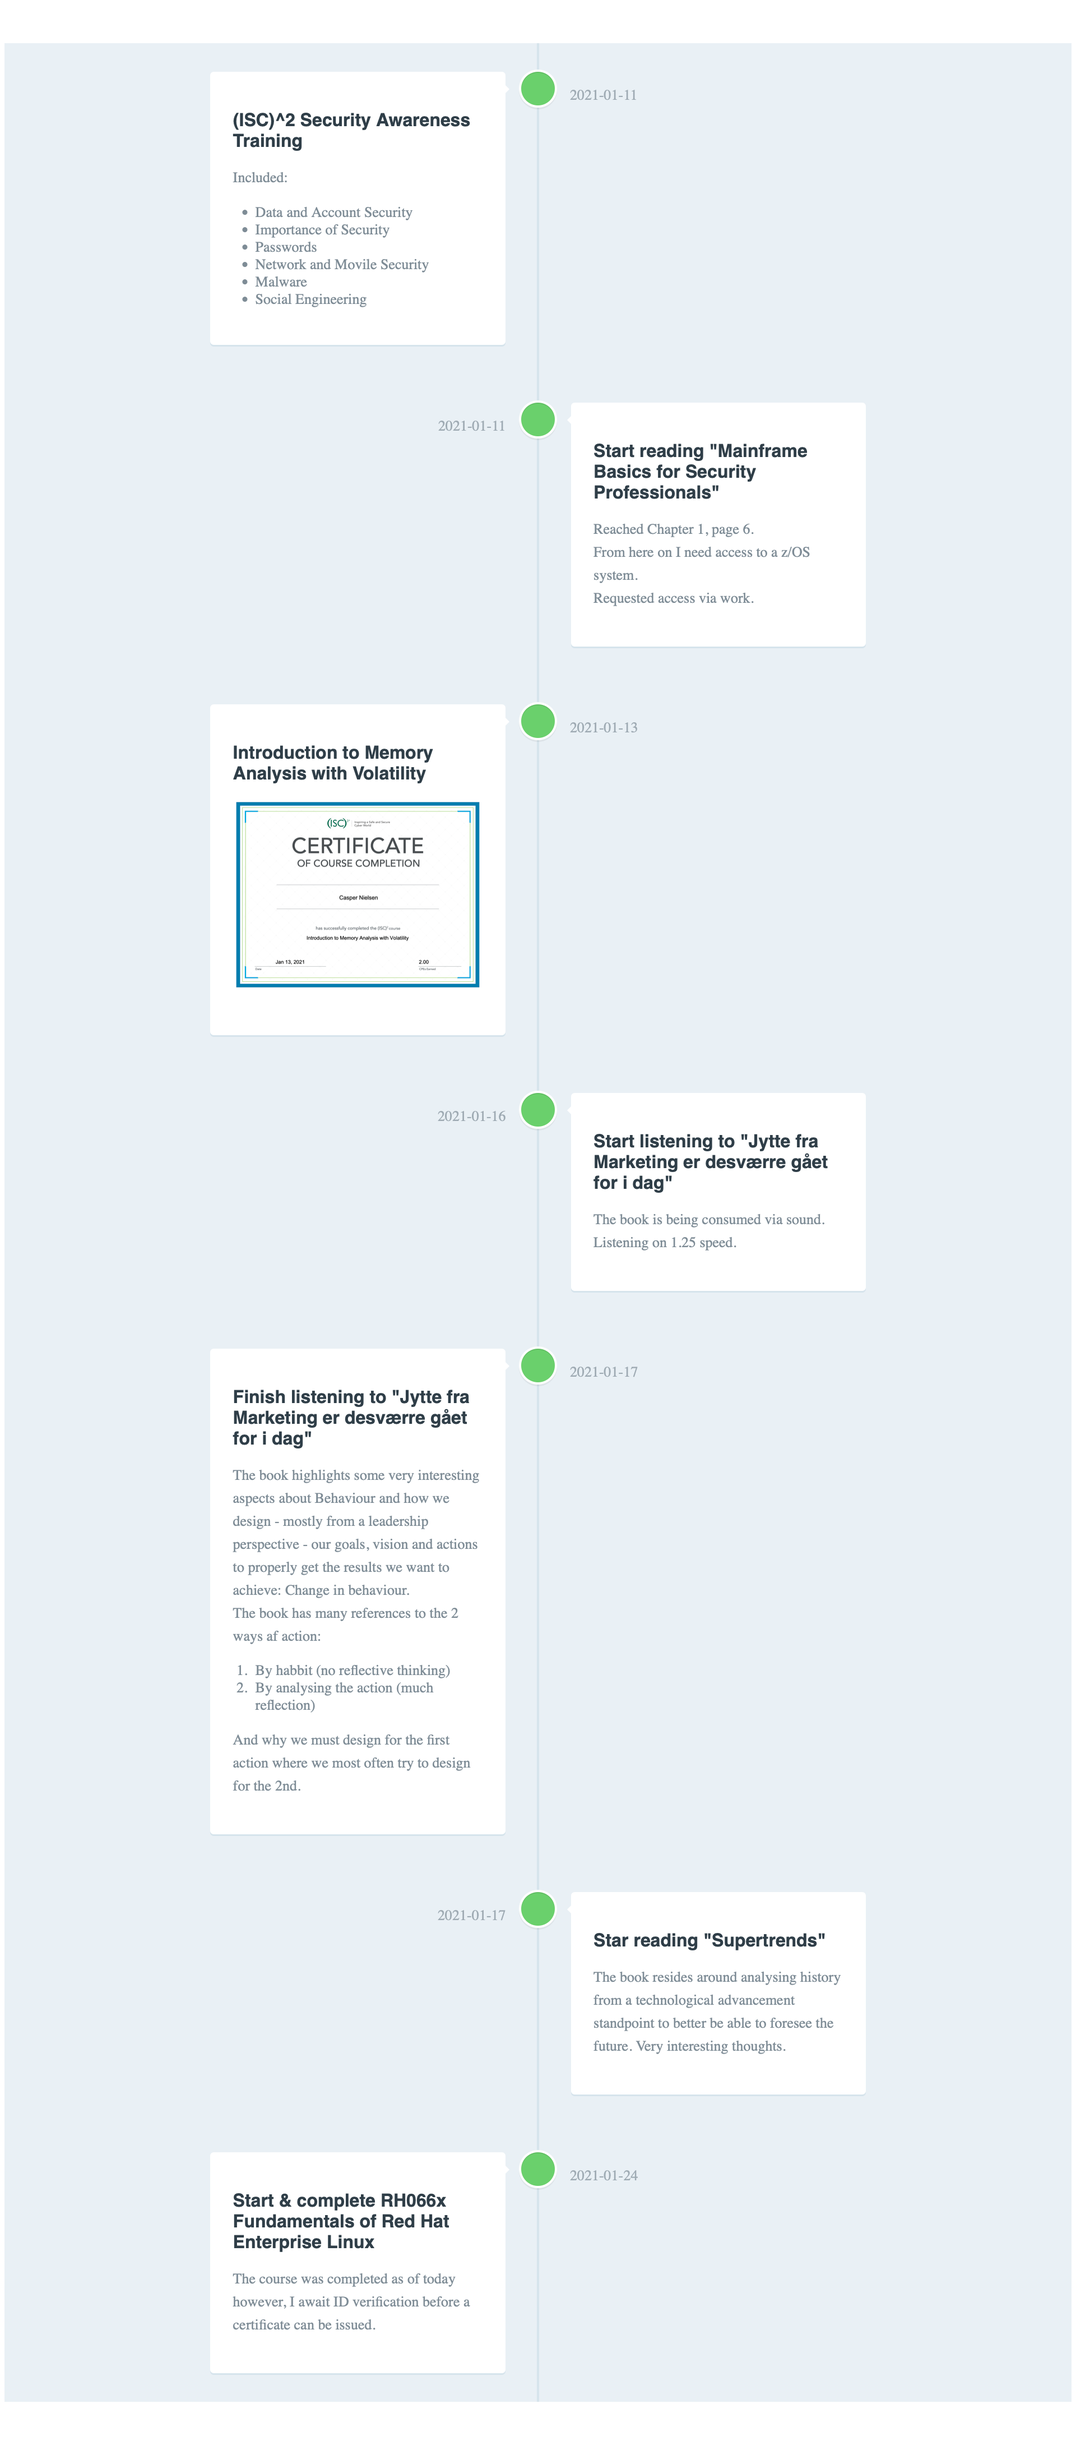
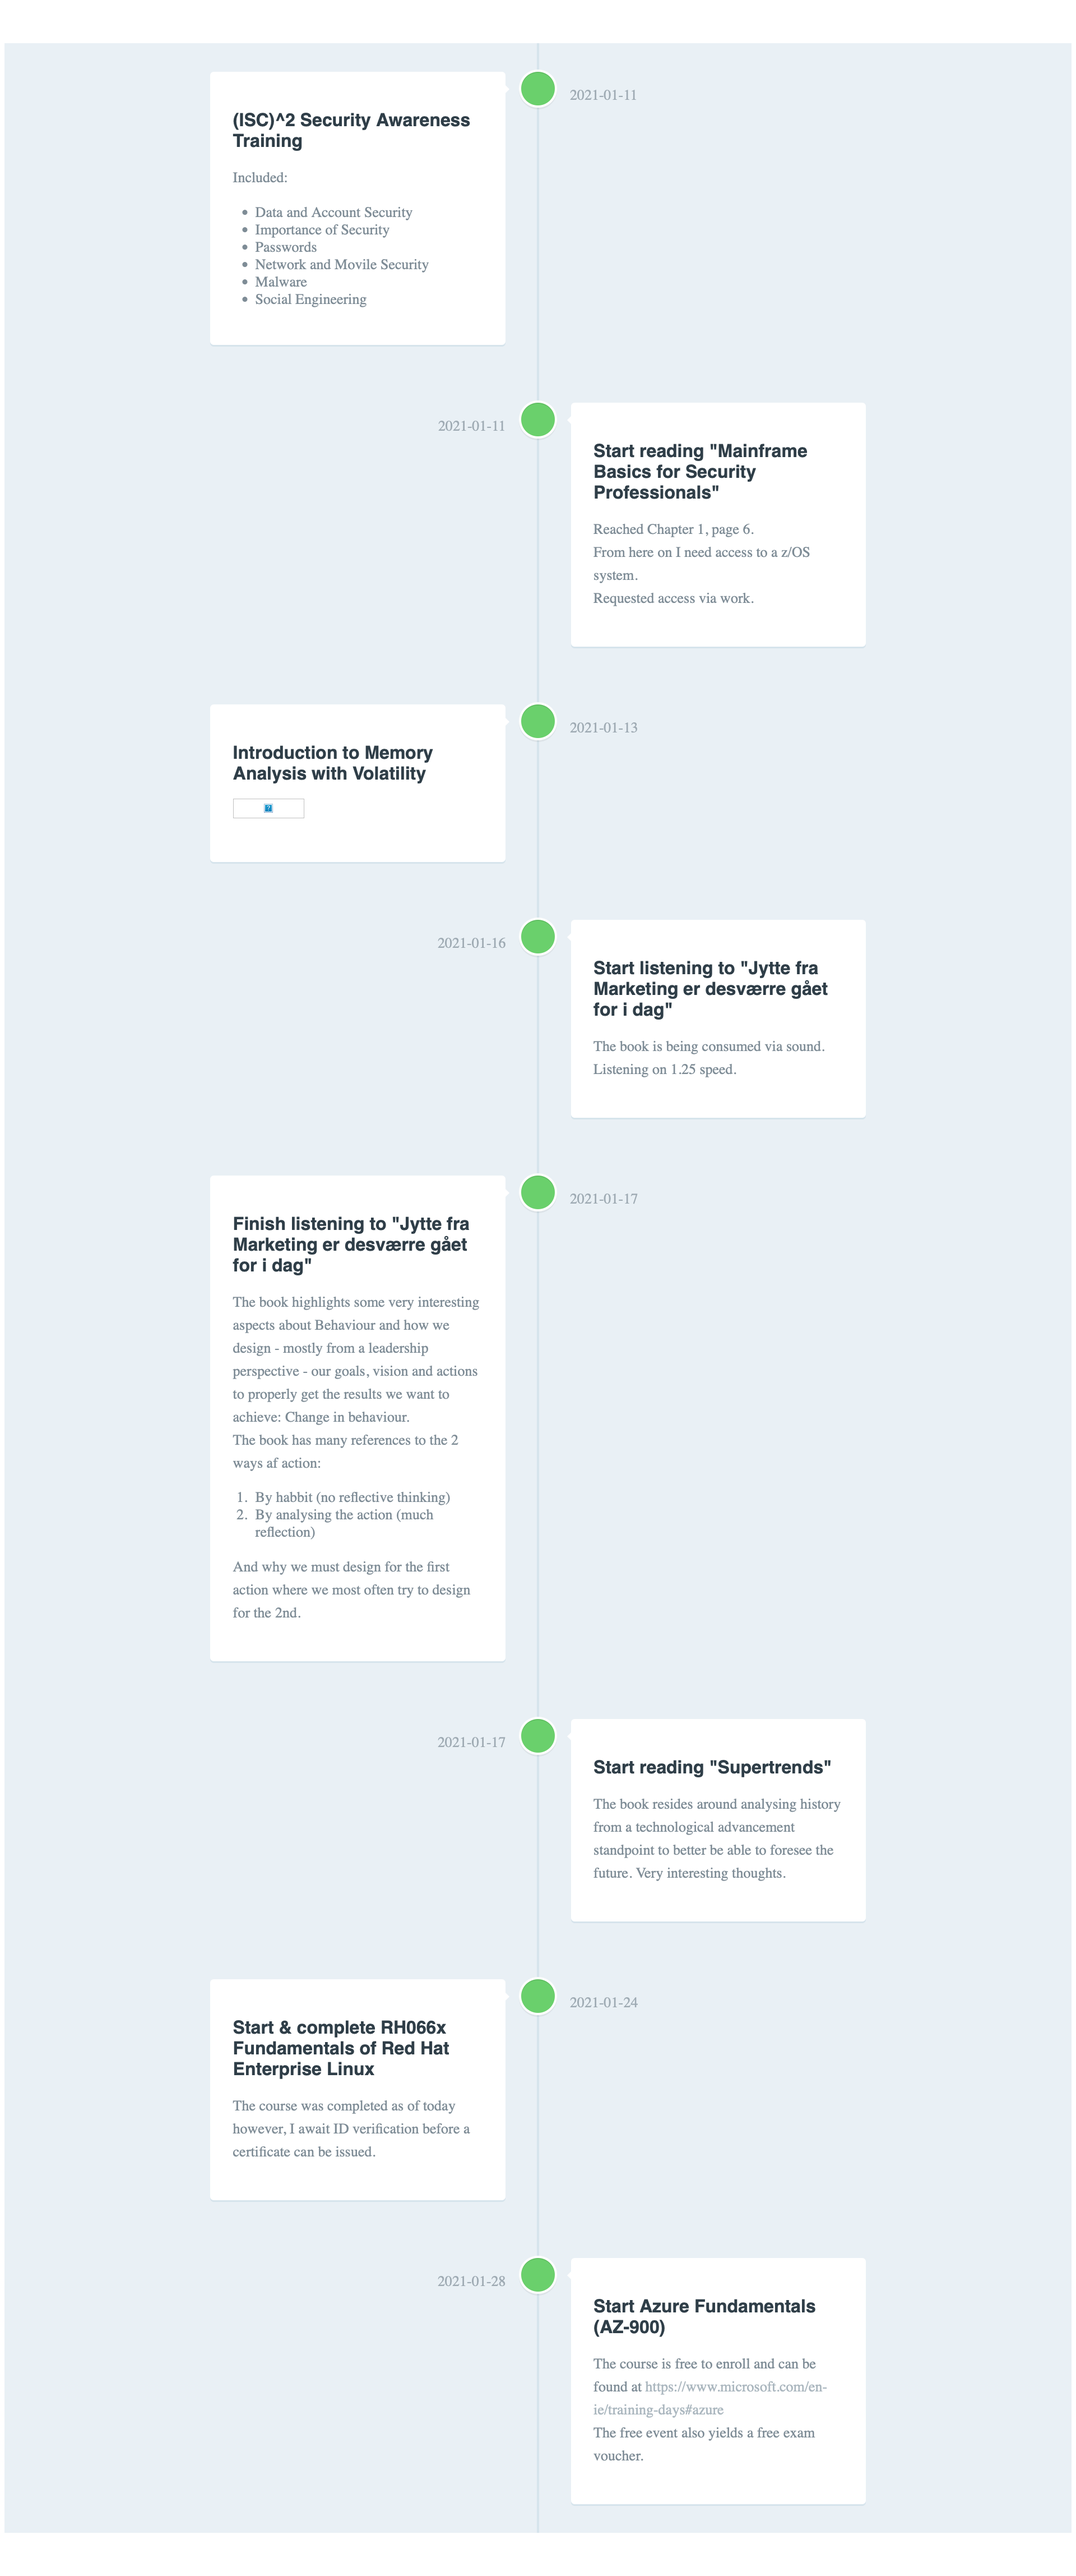
Update

diff --git a/docs/assets/static/timeline.html b/docs/assets/static/timeline.html
@@ -75,7 +75,7 @@ The book has many references to the 2 ways af action:  </p>
             <div class="cd-timeline__img cd-timeline__img--movie js-cd-img svelte-1t2uafz">
             </div>
             <div class="cd-timeline__content js-cd-content svelte-1t2uafz">
-                <h2 class="svelte-1t2uafz">Star reading &quot;Supertrends&quot;</h2>
+                <h2 class="svelte-1t2uafz">Start reading &quot;Supertrends&quot;</h2>
                 <p>The book resides around analysing history from a technological advancement standpoint to better be able to foresee the future. Very interesting thoughts.</p>
 
                 <span class="cd-timeline__date svelte-1t2uafz">2021-01-17</span>
@@ -88,6 +88,16 @@ The book has many references to the 2 ways af action:  </p>
                 <p>The course was completed as of today however, I await ID verification before a certificate can be issued.</p>
 
                 <span class="cd-timeline__date svelte-1t2uafz">2021-01-24</span>
+            </div>
+        </div><div class="cd-timeline__block js-cd-block svelte-1t2uafz">
+            <div class="cd-timeline__img cd-timeline__img--movie js-cd-img svelte-1t2uafz">
+            </div>
+            <div class="cd-timeline__content js-cd-content svelte-1t2uafz">
+                <h2 class="svelte-1t2uafz">Start Azure Fundamentals (AZ-900)</h2>
+                <p>The course is free to enroll and can be found at <a href="https://www.microsoft.com/en-ie/training-days#azure">https://www.microsoft.com/en-ie/training-days#azure</a><br>
+The free event also yields a free exam voucher.</p>
+
+                <span class="cd-timeline__date svelte-1t2uafz">2021-01-28</span>
             </div>
         </div>
     </div>

diff --git a/docs/assets/static/timeline.md b/docs/assets/static/timeline.md
@@ -40,3 +40,8 @@ The book resides around analysing history from a technological advancement stand
 ## 2021-01-24: Start & complete RH066x Fundamentals of Red Hat Enterprise Linux
 
 The course was completed as of today however, I await ID verification before a certificate can be issued.
+
+## 2021-01-28: Start Azure Fundamentals (AZ-900)
+
+The course is free to enroll and can be found at https://www.microsoft.com/en-ie/training-days#azure  
+The free event also yields a free exam voucher.

diff --git a/docs/index.md b/docs/index.md
@@ -3,6 +3,7 @@
 # To modify the layout, see https://jekyllrb.com/docs/themes/#overriding-theme-defaults
 
 layout: default
+title: Casper's ramblings
 ---
 
 ## [2021-01-25: Implementing my blog on Github.io](./posts/2021-01-25-blog.html)
